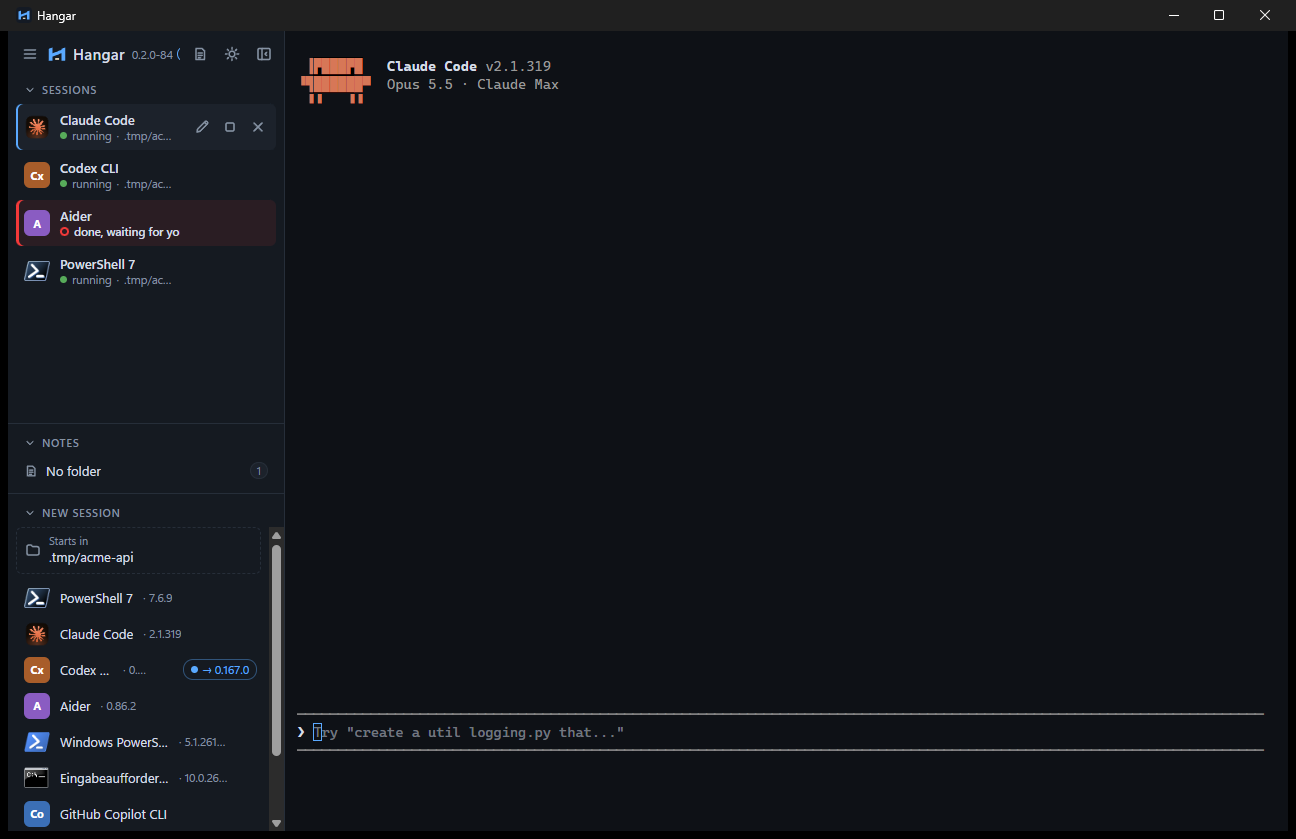
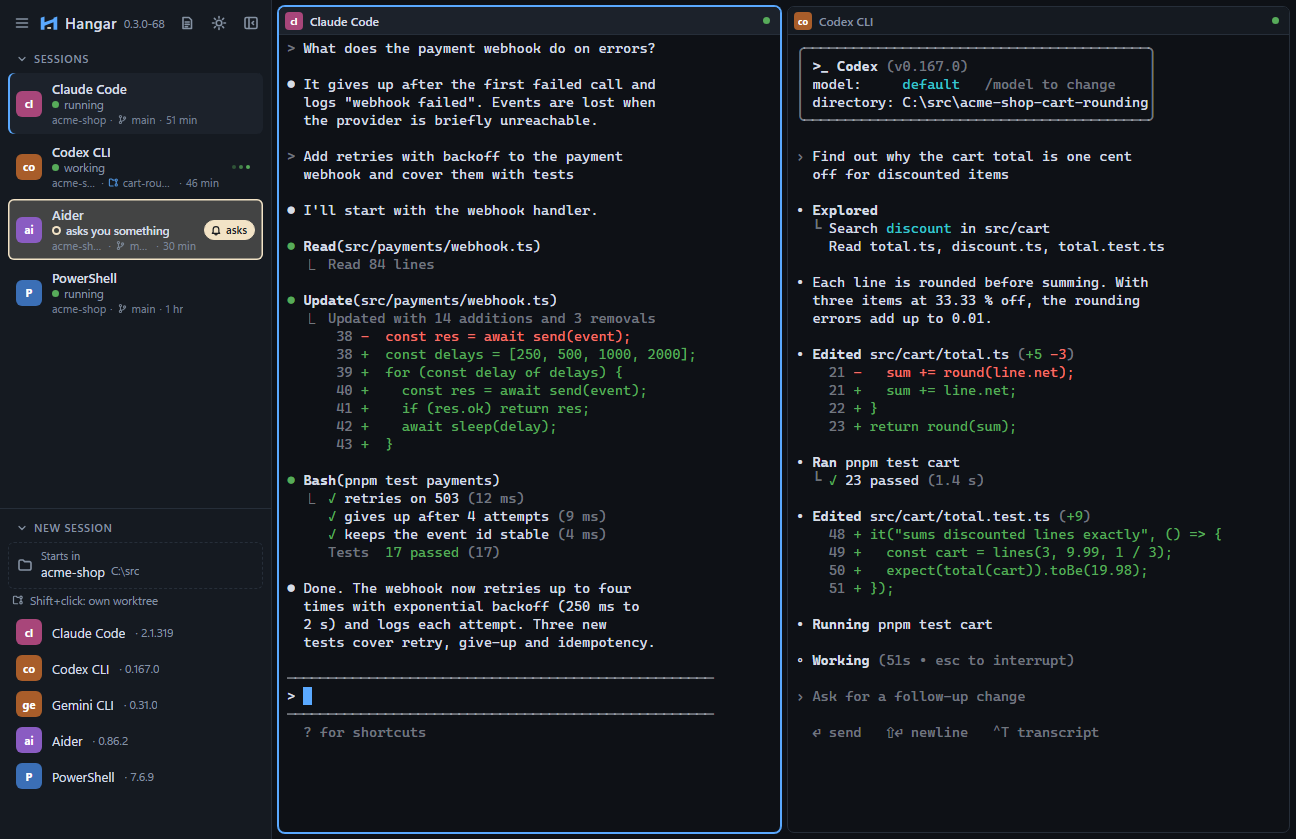
docs: refresh the README screenshots for 0.3.0
The old screenshots showed an almost empty 0.2 console. The new ones show the
0.3 look with a split view, status chips, a session waiting for an answer and
an own worktree, in dark and light, rendered from the real frontend with
fictional sample output.

diff --git a/README.md b/README.md
@@ -12,7 +12,7 @@ background, with its full scrollback.
 
 <picture>
   <source media="(prefers-color-scheme: light)" srcset="docs/images/hangar-light.png">
-  <img alt="Hangar with Claude Code, Codex CLI, Aider and PowerShell sessions in the sidebar" src="docs/images/hangar-dark.png">
+  <img alt="Hangar with Claude Code and Codex CLI side by side, and Aider waiting for an answer in the sidebar" src="docs/images/hangar-dark.png">
 </picture>
 
 [![CI](https://github.com/feoren/hangar/actions/workflows/ci.yml/badge.svg)](https://github.com/feoren/hangar/actions/workflows/ci.yml)
